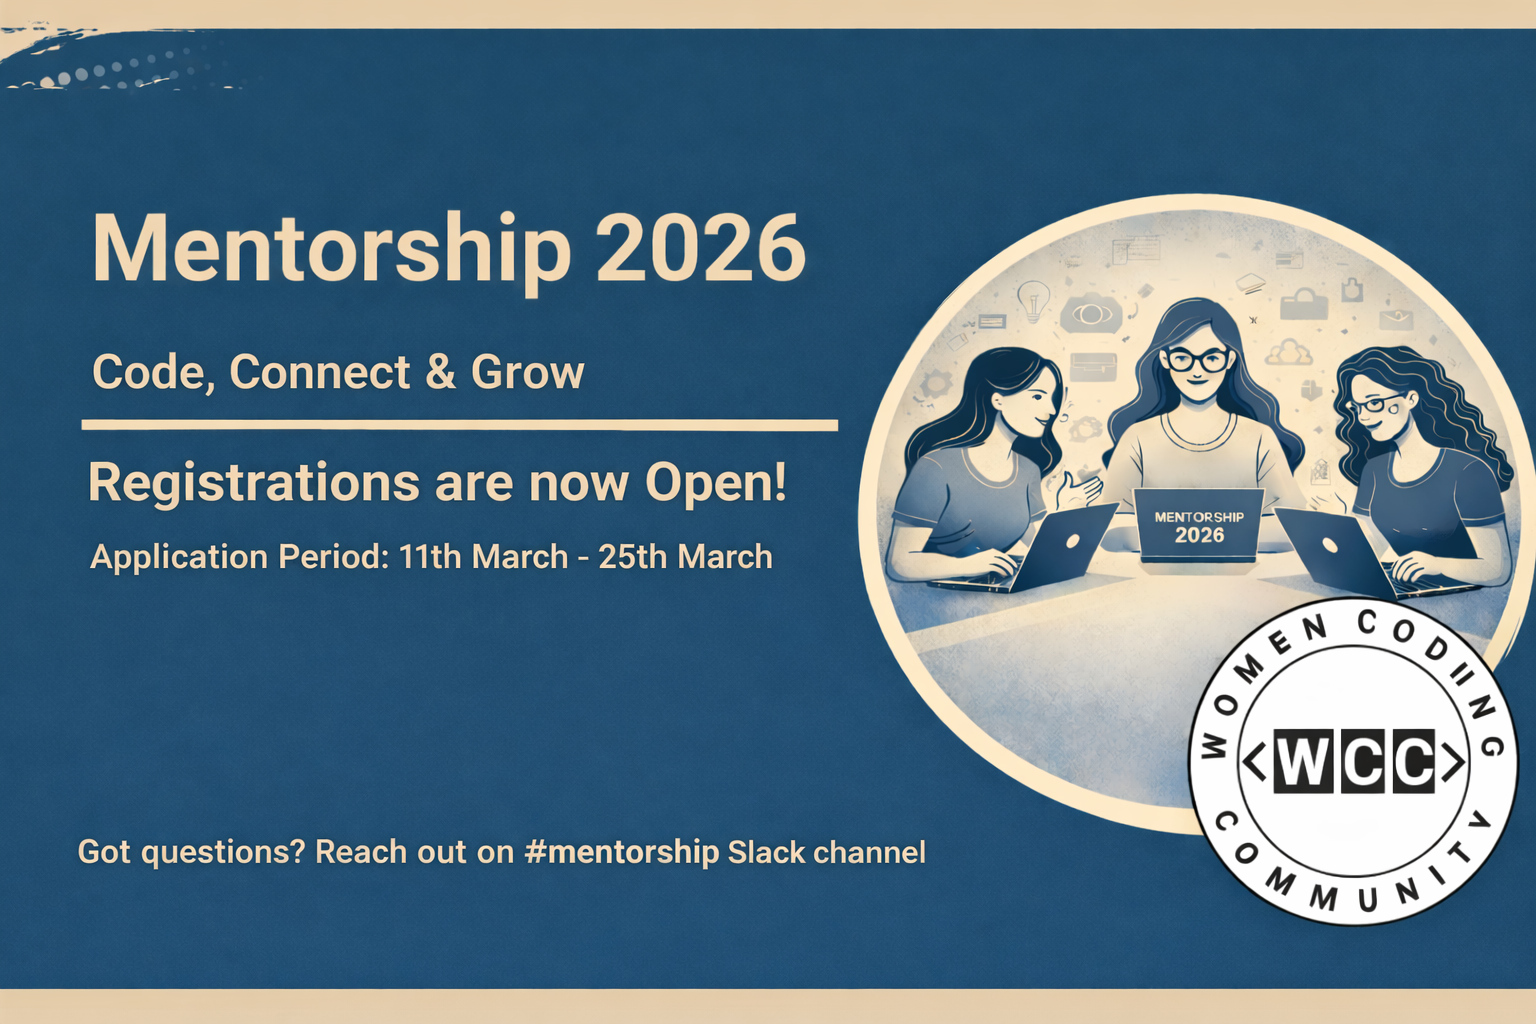
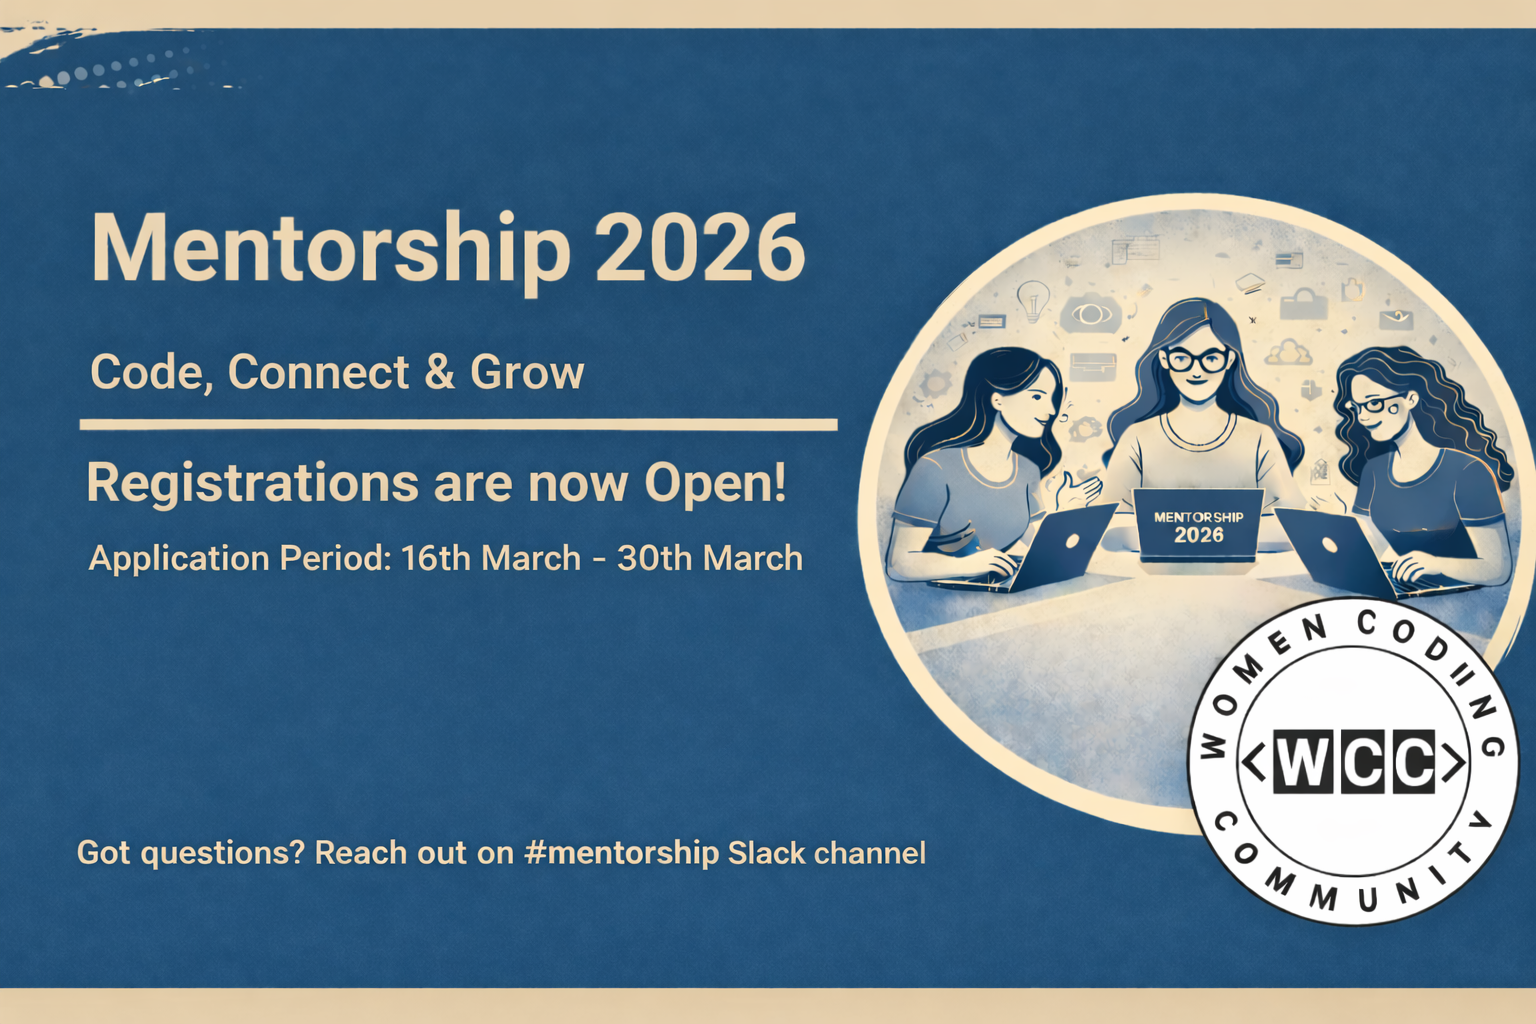
update application period and mentee registration link

diff --git a/mentorship.html b/mentorship.html
@@ -28,7 +28,7 @@ intro: |
                     <li>Mentoring Cycle Starts: <span class="font-weight-bold"> April</span> </li>
                     <li>Monthly Ad-Hoc Registrations: <span class="font-weight-bold">May onwards</span> </li>
                     <br>
-                    <a href="https://mentorship-wcc.vercel.app/mentorship/mentee-registration" target="_blank" class="btn btn-primary">Apply Now!</a>
+                    <a href="https://mentorship.womencodingcommunity.com/mentorship/mentee-registration" target="_blank" class="btn btn-primary">Apply Now!</a>
                 </div>
                 <!-- <div class="card-body col-12 col-md-5" id="2025-cycle">
                     <h2 class="card-title">2025 Cycle Now Closed for both Long-Term and Ad-Hoc Registrations!</h2>
